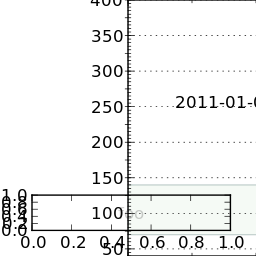
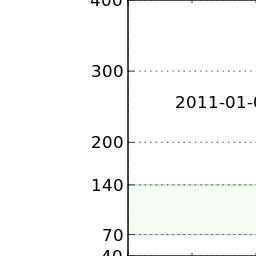
simplify a bit

Changed region(s): [[0.0, 0.0, 0.9688, 1.0], [0.7812, 0.6875, 0.8125, 0.7188]]

diff --git a/src/data/exp.py b/src/data/exp.py
@@ -168,9 +168,12 @@ def daily_axis( ts ):
 
   return canvas
 
-def glucose_ticks( ):
-  return ticker.FixedLocator( [40, 70 ] )
-  
+def config_yaxis( ax ):
+  ax.set_ylim( [ 40, 400 ] )
+  tick_locs = [40,70,140,200,300,400]
+  ax.yaxis.set_major_locator( ticker.FixedLocator( tick_locs ) )
+  ax.yaxis.set_major_formatter(ticker.FixedFormatter( tick_locs ))
+
 def grid( data ):
   fig = Figure( ( 2.56, 2.56 ), 300 )
   canvas = FigureCanvas(fig)
@@ -182,7 +185,6 @@ def grid( data ):
   ax = fig.add_axes((.5,0,1,1))
   xmin, xmax = days[ 0 ], days[ -1 ]
   ax.set_xlim( [ xmin, xmax ] )
-  ax.set_ylim( [ 40, 400 ] )
   ax.grid(True)
   safe_span(ax)
   one = ax.text( .50, .50, name,
@@ -195,25 +197,9 @@ def grid( data ):
            horizontalalignment='center',
            verticalalignment='center',
            transform = ax.transAxes )
-  #ax.yaxis.set_major_locator(glucose_ticks())
-  #ax.yaxis.set_major_formatter(ticker.FixedFormatter( [0, 40,70,140,200,300,400] ))
-  ax.yaxis.set_minor_locator(ticker.MaxNLocator( 100, steps=[ 1, 5, 10 ]) )
   set_daily_locators( ax )
-  #ax.autofmt_xdate( True)
-  plt.setp(ax.get_xminorticklabels(), visible=True )
-  plt.setp(ax.get_xmajorticklabels(), visible=True )
-  plt.setp(ax.get_ymajorticklabels(), visible=True )
-  plt.setp(ax.get_yminorticklabels(), visible=True )
+  config_yaxis( ax )
 
-  yaxis = ax.get_yaxis()
-  #plt.setp(yaxis.get_minorticklines()
-  for i, tick in enumerate(yaxis.get_minorticklines()):
-    if i % 5 == 0:
-      tick.set( linewidth=5, xdata=[0,5] )
-    #print tick.get_ydata()
-    
-    
-    
   return canvas
 
 
